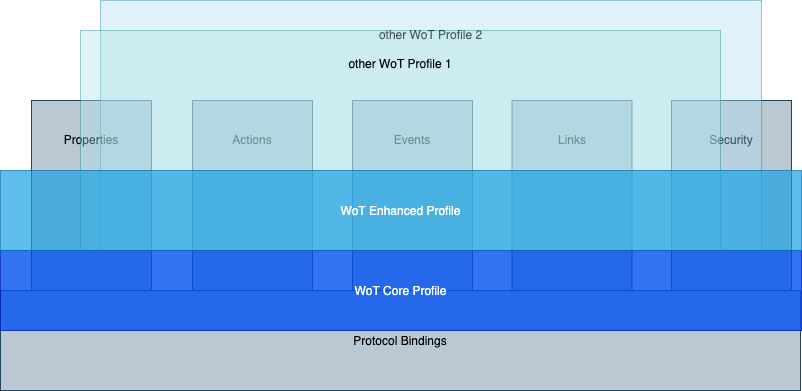
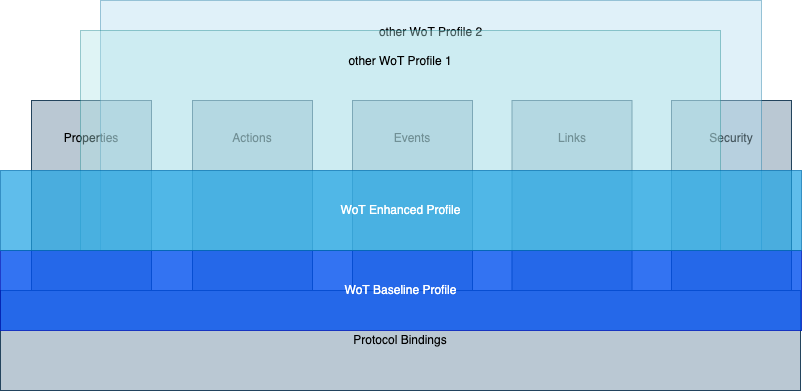
editorial fixes, several new assertions

diff --git a/index.html b/index.html
@@ -889,7 +889,7 @@
     </dl>
 
     <!-- Device categories -->
-    <section id="device-categoriesdevices">
+    <section id="device-categories">
       <h2>Device Categories</h2>	  
       <p>
         In a deployment of WoT conforming to the <a href="https://www.w3.org/TR/wot-architecture/#architecture-abstract">WoT Abstract Architecture</a>
@@ -2797,7 +2797,7 @@
         JSON-LD [[?JSON-LD11]] and graph databases to enable
         powerful semantic processing of the metadata.
       </p>
-      <p> A <a>Thing Description</a> (TD) describes <a>Thing</a>
+      <p> A <a>Thing Description</a> describes <a>Thing</a>
         instances with general metadata such as name, ID,
         descriptions, and also can provide relation metadata
         through links to related <a>Things</a> or other documents. <a>TDs</a>
@@ -2849,19 +2849,19 @@
     <section id="sec-thing-model">
       <h2>Thing Model</h2>
 
-      <p>The <a>Thing Model</a> offers the opportunity to define a template-based model for
+      <p>The <a>Thing Model</a> defines a template-based model for
           <a>Thing Description</a> instances. A <a>Thing Model</a> has no
-        specific or only partial communication- and  security-based information. This kind
-        of missing information is supplemented by the creation of <a>Thing Description</a>
+        instance specific and only partial communication- and  security-based information. This kind
+        of information is supplemented by the creation of <a>Thing Description</a>
         instantiation.
       </p>
 
 		  <p>
         A <a>Thing Model</a> mainly describes the <a>Properties</a>, <a>Actions</a>, and <a>Events</a> and
-        common metadata which then should be valid for all instantiated <a>Thing Descriptions</a>. This paradigm
+        common metadata which then are available in all instantiated <a>Thing Descriptions</a>. This paradigm
         can be compared with abstract class or interface definitions (~Thing Model) in object-oriented programming to
-		    create objects (~Thing Descriptions).Such <a>Thing Models</a> get relevant for, e.g., mass production of IoT devices,
- 		    onboard scenarios such in cloud services, or to simulate of device <a>Things</a> that have not yet been developed.
+		    create objects (~Thing Descriptions).Such <a>Thing Models</a> are relevant for, e.g., mass production of IoT devices,
+ 		    onboarding scenarios as in cloud services, or to  simulate <a>Devices</a> that have not yet been developed.
       </p>
 
     </section>
@@ -2869,8 +2869,8 @@
     <section id="wot-profiles">
       <h3>Profiles</h3>
       <p>
-      The WoT Profile Specification defines a WoT Baseline Profile, 
-      which enables out of the box interoperability among things 
+      The WoT Profile Specification [[!WOT-PROFILE]] defines a WoT Baseline Profile, 
+      which enables <em>out of the box interoperability</em> among things 
       and devices. Out of the box interoperability implies, 
       that devices can be integrated into various application 
       scenarios without deep level adaptations. 
@@ -2903,7 +2903,7 @@
           to the <a>WoT Thing Description</a> specification. These constraints define a
           subset of valid <a>WoT Thing Descriptions</a> by defining
           additional rules on various aspects of the <a>WoT Thing
-            Description</a> specification.
+            Description</a>.
         </p>
   
         <table class="def">
@@ -2955,12 +2955,12 @@
   
         <p>These constraints and rules fall into two categories:</p>
         <ul>
-          <li>constraints for the data model.</li>
-          <li>constraints for the protocol binding.</li>
+          <li>constraints on the data model.</li>
+          <li>constraints on the protocol binding.</li>
         </ul>
   
         <p>These two categories are orthogonal to each other,
-          i.e. a data model that conforms to a profile can be
+          i.e. an information model that conforms to a profile can be
           mapped to different protocols. The protocol binding for
           each protocol may contain additional (protocol-specific)
           constraints.</p>
@@ -3067,7 +3067,8 @@
         <a>TDDs</a> are not just a convenience feature but are essential in several
         WoT use cases.
         Using a <a>TDD</a> is appropriate when a <a>Thing</a> has resource restrictions
-        (e.g., limited memory space, limited power), uses a specialized protocol
+        (e.g., limited memory space, limited power), 
+        c.f. <a href="#device-categories">Device Categories</a>, uses a specialized protocol
         requiring translation by an intermediary (in which case the <a>TD</a> provided by 
         the <a>TDD</a> would describe the
         translated network interface supported by the intermediary), 
@@ -3096,15 +3097,7 @@
     <section id="sec-binding-templates" class="informative">
       <h3>WoT Binding Templates</h3>
 
-      <p>
-        The <a>Binding Templates</a> address the aspect that an application client (a <a>Consumer</a>) can use the <a>Thing Description</a> to 
-        extract the specific metadata of the protocols (e.g. about HTTP, MQTT, Modbus, etc.), payload formats (binary, JSON, CBOR, EXI, etc.) and their possible
-        usage in an IoT platform context (e.g., ECHONET, OPC UA).
-        The metadata can be passed for example to a network implementation interface to establish interaction with the desired <a>Thing</a> and to serialize / desirialize
-        the payload messages. In that context, <a>Binding Templates</a> includes the consideration of three kinds of bindings: Protocol binding, Payload format binding, and Platform binding.  
-      </p>
 
-      <!--
       <p> The IoT uses a variety of protocols for accessing
         devices, since no single protocol is appropriate in all
         contexts. Thus, a central challenge for the Web of
@@ -3116,14 +3109,23 @@
         variety through <a>Protocol Bindings</a>, which must meet a
         number of constraints (see <a href="#sec-protocol-bindings"></a>).
       </p> 
-      -->
+      <p>
+        The <a>Binding Templates</a> address the aspect that an application client (a <a>Consumer</a>) can use the <a>Thing
+          Description</a> to
+        extract the specific metadata of the protocols (e.g. about HTTP, MQTT, Modbus, etc.), payload formats (binary, JSON,
+        CBOR, EXI, etc.) and their usage in an IoT platform context (e.g., ECHONET, OPC UA).
+        The metadata can be passed to a network implementation interface to establish interaction with the 
+        <a>Thing</a> and to serialize / deserialize
+        the payload messages. In that context, <a>Binding Templates</a> include three kinds of bindings:
+        Protocol binding, Payload format binding, and Platform binding.
+      </p>
 
       <p> The non-normative <a>WoT Binding Templates</a> specification
         [[?WOT-BINDING-TEMPLATES]] provides a collection of
         blueprints that give guidance on how to interact with different <a>Things</a> 
         that use different <a>transport protocols</a>, <a>content types</a> or that are 
-        part different <a>IoT platforms</a> or standards (e.g., OCF, oneM2M, OMA LWM2M, OPC UA) 
-        that require certain combinations of <a>transport protocols</a> and 
+        different <a>IoT platforms</a> or standards (e.g., OCF, oneM2M, OMA LWM2M, OPC UA) 
+        which use certain combinations of <a>transport protocols</a> and 
         <a>content types</a>. When describing a particular IoT device or platform, the corresponding
         <a>Binding Template</a> can be used to look up the communication metadata that is to be provided in the
          <a>Thing Description</a> to  support that platform.
@@ -3159,9 +3161,11 @@
             <li>
                 <b>Subprotocol</b>
                 <p>
-                  <a>Transport protocols</a> may have extension mechanisms that must be known to interact successfully.
-                  Such <a>subprotocols</a> cannot be identified from the URI scheme alone and must be declared explicitly
-                  using the <code>subprotocol</code> field inside forms.
+                  <span class="rfc2119-assertion" id="arch-binding-templates-known-subprotocol">
+                    <a>Transport protocols</a> MAY have extension mechanisms that must be known to interact successfully.</span>
+                  <span class="rfc2119-assertion" id="arch-binding-templates-subprotocol-explicit-declaration">
+                  Such <a>subprotocols</a> cannot be identified from the URI scheme alone and MUST be declared explicitly
+                  using the <code>subprotocol</code> field inside forms.</span>
                   Examples for HTTP are long polling [[?RFC6202]] (<code>longpoll</code>) or 
                   Server-Sent Events [[?HTML]] (<code>sse</code>).
                 </p>
@@ -3173,10 +3177,12 @@
           <p>
             Representation formats (a.k.a. serializations) used for exchanging data can differ between protocols, 
             <a>IoT Platforms</a> and standards.
-            The media type [[!RFC2046]] identifies these formats, while media type parameters may specify them further.
-            Forms may contain the media type and optional parameters in additional form fields such as a content type 
+            <span class="rfc2119-assertion" id="arch-binding-templates-media-type-parameters">
+            The media type [[!RFC2046]] identifies these formats, while media type parameters MAY specify them further.</span>
+            <span class="rfc2119-assertion" id="arch-binding-templates-media-type-optional-parameters">
+            Forms MAY contain the media type and optional parameters in additional form fields such as a content type 
             field known from HTTP, which combines media type and its potential parameters
-            (e.g., <code>text/plain; charset=utf-8</code>).
+            (e.g., <code>text/plain; charset=utf-8</code>).</span>
           </p>
         </li>
         <li>
@@ -3212,7 +3218,7 @@
         relatively complex update process. The <a>WoT
           Scripting API</a> in contrast enables
         implementing device logic by reusable scripts executed
-        in a runtime system for IoT applications not dissimilar
+        in a runtime system for IoT applications. It is similar
         to that of a Web browser, and aims to improve
         productivity and reduce integration costs. Furthermore,
         standardized APIs enable portability for application
@@ -3236,7 +3242,7 @@
 
     <!-- Security Guidelines -->
 
-    <section id="sec-security-guidelines" class="informative">
+    <section id="sec-security-guidelines">
       <h3>WoT Security and Privacy Guidelines</h3>
       <p> Security is a cross-cutting concern and should be
         considered in all aspects of system design. In the WoT
